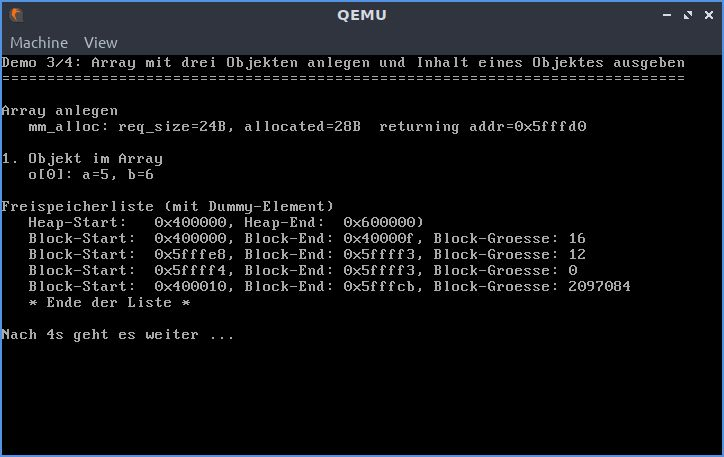
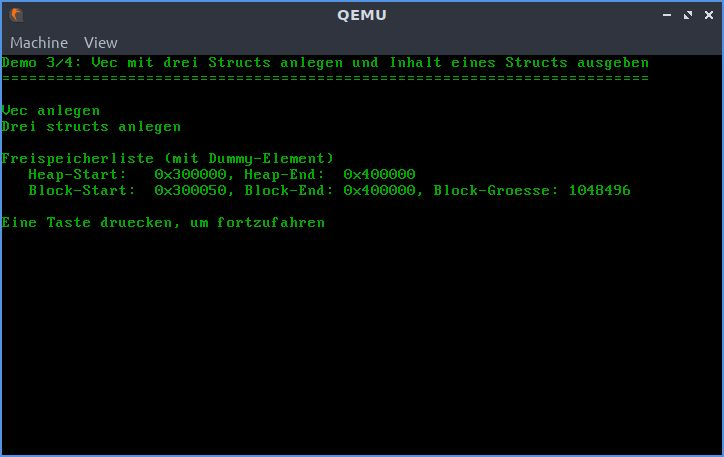
Updates von Voralge 2

diff --git a/src/src/devices/pcspk.rs b/src/src/devices/pcspk.rs
@@ -3,13 +3,13 @@
  *                                p c s p k                                  *
  *                                                                           *
  *---------------------------------------------------------------------------*
- * Beschreibung:    Mit Hilfe dieser Klasse kann man Toene auf dem           *
- *                  PC-Lautsprecher ausgeben.                                *
+ * Beschreibung:    Verzoegerung um X ms (in 1ms Schritten; Min. 1ms).       *
+ *                  Da der Counter "nur" 16 Bit hat muss man evt. mehrmals   *
+ *                  herunterzaehlen.                                         *
+ *                  Es empfiehlt sich Mode 2 "rate generator"                *
+ *                                                                           * 
  *                                                                           *
- * Achtung:         Qemu muss mit dem Parameter -soundhw pcspk aufgerufen    *
- *                  werden. Ansonsten kann man nichts hoeren.                *
- *                                                                           *
- * Autor:           Michael Schoettner, HHU, 22.9.2016                       *
+ * Parameter:       time (delay in ms)                                       *
  *****************************************************************************/
 #![allow(dead_code)]
 

diff --git a/src/src/kernel/allocator/bump.rs b/src/src/kernel/allocator/bump.rs
@@ -8,7 +8,7 @@
  *                                                                           *
  * Autor:           Philipp Oppermann                                        *
  *                  https://os.phil-opp.com/allocator-designs/               *
- *                  Modified by Michael Schoettner, 15.3.2022                *
+ *                  Modified by Michael Schoettner, 11.5.2022                *
  *****************************************************************************/
 
 use super::{align_up, Locked};
@@ -33,12 +33,10 @@ impl BumpAllocator {
         };
     }
 
-    /*
-     * Initializes the bump allocator with the given heap bounds.
-     * 
-     * This method is unsafe because the caller must ensure that the given
-     *  memory range is unused. Also, this method must be called only once.
-     */
+    // Initialize the allocator with the given heap bounds.
+    //
+    // This function is unsafe because the caller must guarantee that 
+    // the given heap bounds are valid. This method must be called only once.
     pub unsafe fn init(&mut self, heap_start: usize, heap_size: usize) {
         self.start = heap_start;
         self.end = heap_start + heap_size;

diff --git a/src/src/kernel/allocator/list.rs b/src/src/kernel/allocator/list.rs
@@ -8,7 +8,7 @@
  *                                                                           *
  * Autor:           Philipp Oppermann                                        *
  *                  https://os.phil-opp.com/allocator-designs/               *
- *                  Modified by Michael Schoettner, 15.3.2022                *
+ *                  Modified by Michael Schoettner, 11.5.2022                *
  *****************************************************************************/
 
 use super::{align_up, Locked};
@@ -70,8 +70,7 @@ impl LinkedListAllocator {
     // Initialize the allocator with the given heap bounds.
     //
     // This function is unsafe because the caller must guarantee that 
-    // the given heap bounds are valid and that the heap is unused.
-    // This method must be called only once.
+    // the given heap bounds are valid. This method must be called only once.
     pub unsafe fn init(&mut self, heap_start: usize, heap_size: usize) {
         self.heap_start = heap_start;
         self.heap_end = heap_start + heap_size;

diff --git a/README.md b/README.md
@@ -95,6 +95,8 @@ behandelt werden. Dies erledigt die Rust-Runtime automatisch, jedoch ist der Par
 In folgenden Dateien müssen Quelltexte einfügt werden: `kernel/allocator/bump.rs` und
 `user/aufgabe2/heap_demo.rs`.
 
+*Achtung: Die Pointer auf einen neu allozierten Speicherblock müssen aligniert werden. Wie die Alignierung aussehen muss steht im Parameter* `layout` *beim Aufruf von* `alloc`*. In* `allocator.rs` *gibt es hierfür die Hilfsfunktion* `align_up`. 
+
 ## A2.2: Listenbasierter Allokator
 In dieser Aufgabe soll ein verbesserter Allokator implementiert werden, welcher freigegeben Speicherblöcke wiederverwenden kann. Hierzu sollen alle freien Blöcke miteinander verkettet werden, siehe Abbildung.
 
@@ -118,6 +120,9 @@ Verwenden/erweitern Sie die Test aus Aufgabe 2.1. Ein Anregung dazu finden Sie a
 In folgenden Dateien müssen Quelltexte einfügt werden: `kernel/allocator/list.rs` und
 `user/aufgabe2/heap_demo.rs`.
 
+*Achtung: Die Pointer auf einen neu allozierten Speicherblock müssen aligniert werden. Wie die Alignierung aussehen muss steht im Parameter* `layout` *beim Aufruf von* `alloc`*. In* `allocator.rs` *gibt es hierfür die Hilfsfunktion* `align_up`. 
+
+
 ## A2.3: PC-Lautsprecher
 In dieser Aufgabe muss die Funktion `delay` implementiert werden. Diese Funktion ist für das Abspielen von Tönen notwendig, die eine gegebene Zeitdauer gespielt werden sollen. Da wir bisher keine Interrupts verarbeiten können und auch keine Systemzeit haben bietet es sich an den Zähler 0 des Programmable Interval Timer (PIT) hierfür zu verwenden. Sie können dann in einer Schleife fortlaufend den aktuellen Zählerstand auslesen, der ja mit 1,19 MHz dekrementiert wird
 und so näherungsweise die Ausführung, eine gegebene Zeit in Millisekunden, verzögern. Dies ist eine unsaubere Lösung die wir später ersetzen werden.
@@ -130,7 +135,7 @@ In folgenden Dateien müssen Quelltexte einfügt werden: `devices/pcspk.rs` un
 
 
 ## Beispielausgaben zur Speicherverwaltung
-Nachstehend sind einige Screenshots zum Testen der Speicherverwaltung. Sie können sich natürlich selbst Testfunktionen und Testausgaben überlegen. Sollten die Ausgaben über mehrere Seiten gehen bietet es sich an eine Zeitverzögerung mit `pcspk.delay` zu realsieren. Dies ist umständlich und nur als vorübergehende Lösung gedacht; später können wir Tastatureingaben verarbeiten ...
+ Nachstehend sind einige Screenshots zum Testen der Speicherverwaltung. Sie können sich natürlich selbst Testfunktionen und Testausgaben überlegen. Sollten die Ausgaben über mehrere Seiten gehen bietet es sich an auf einen Tastendruck mit `keyboard::key_hit()` zu warten.
 
 ![Heap1](https://github.com/hhu-bsinfo/hhuTOSr/blob/aufgabe-2/img/heap1.jpg)
 
